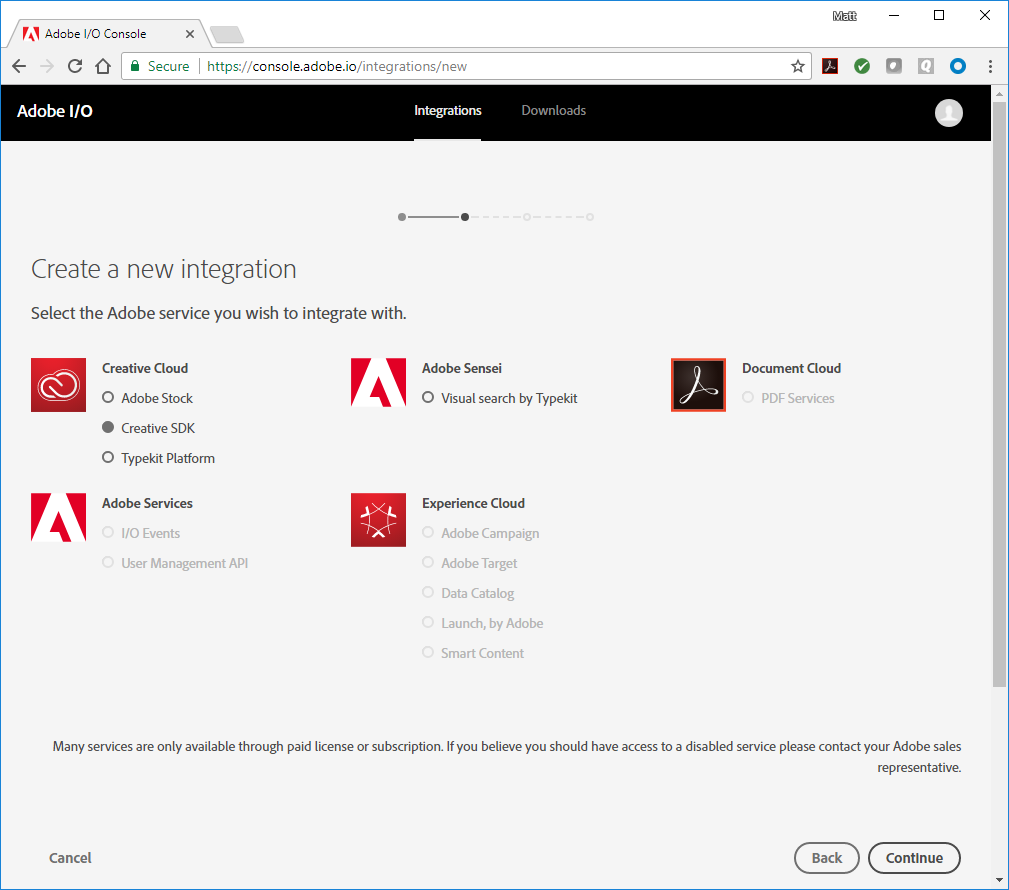
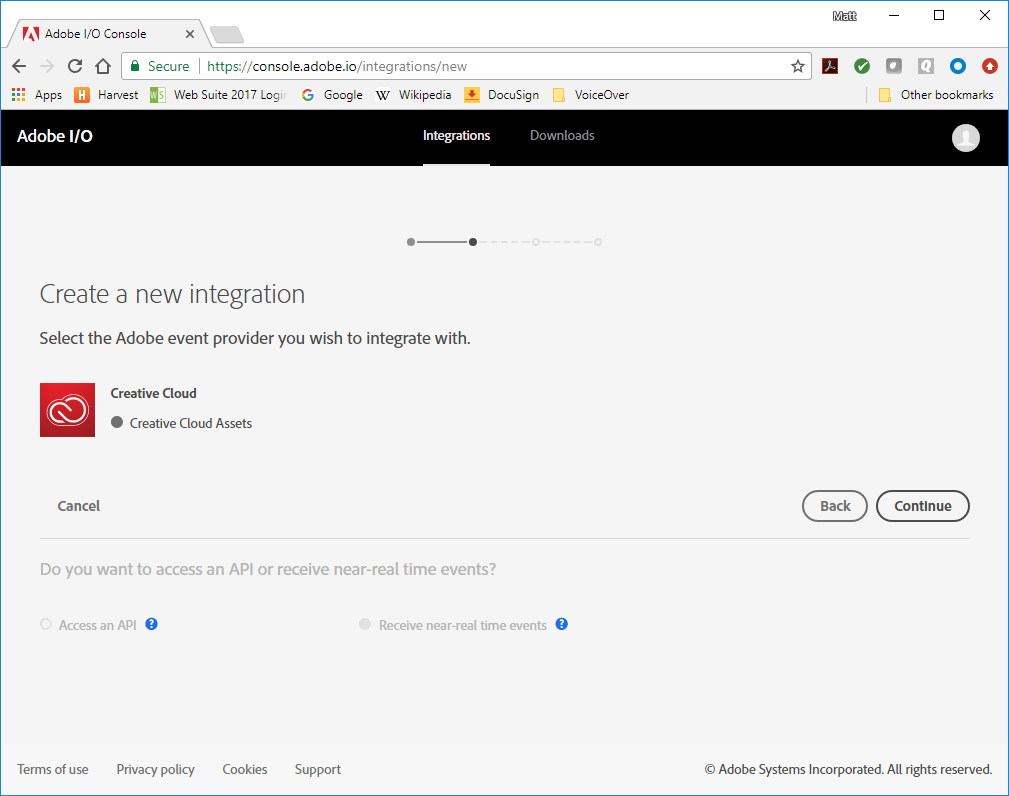
Updates to reflect choosing to receive events instead of API

diff --git a/Webhook_docs_intro.md b/Webhook_docs_intro.md
@@ -134,7 +134,7 @@ Among other things, ngrok is a great tool for testing webhooks. Once you've down
 
 ![ngrok on port 80](img/ngrok.png "ngrok on port 80")
 
-In the ngrok UI, you can see the URL for viewing the ngrok logs, labeled "Web Interface", plus the public-facing URLs ngrok generates to forward HTTP and HTTPS traffic to your localhost. You can use either of those public-facing URLs to register your Webhook with Adobe I/O, so long as your application is configured to respond on your localhost accordingly. Once your testing phase is complete, you would then replace the ngrok URL in your Adobe I/O integration with the public URL for your deployed app.
+In the ngrok UI, you can see the URL for viewing the ngrok logs, labeled "Web Interface", plus the public-facing URLs ngrok generates to forward HTTP and HTTPS traffic to your localhost. You can use either of those public-facing URLs to register your Webhook with Adobe I/O, so long as your application is configured to respond on your localhost accordingly. Once your testing phase is complete, replace the ngrok URL in your Adobe I/O integration with the public URL for your deployed app.
 
 <a id="org926a538"></a>
 
@@ -146,11 +146,11 @@ To create an integration:
   
   ![Adobe I/O Console](img/Console_1.png "Adobe I/O Console")  
   
-2. Select [New integration](https://console.adobe.io/integrations/new). You have the choice between "Access An API" or "Receive Realtime Events". Choose "Access an API" and select "Continue".  
+2. Select [New integration](https://console.adobe.io/integrations/new). You have the choice between "Access an API" or "Receive near real-time events". Choose "Receive near real-time events" and select "Continue".  
   
   ![Create a new integration](img/Console_2.png "Create a new integration")  
   
-3. Now you're given the choice of Adobe service for your integration. Choose "Creative SDK" and select "Continue".  
+3. Now you're given the choice of Adobe event provider for your integration. Choose "Creative Cloud Assets" and select "Continue".  
   
   ![Choosing Creative SDK](img/Console_3.png "Choosing Creative SDK")  
   
@@ -158,35 +158,39 @@ To create an integration:
   
   ![A brand new integration](img/Console_4.png "A brand new integration")  
   
-5. Enter a name and description for the integration. As a platform, choose "Web". You also need to specifiy a Redirect URL and Redirect URL pattern. These are only relevant when using the [Creative Cloud SDK User Auth UI](https://creativesdk.adobe.com/docs/web/#/articles/userauthui/index.html). For now you can fill in `https://example.com` and `https://example\.com/.*` respectively. Select "Create Integration".  
+5. Enter a name and description for the integration. As a platform, choose "Web". You also need to specifiy a Redirect URL and Redirect URL pattern. These are only relevant when using the [Creative Cloud SDK User Auth UI](https://creativesdk.adobe.com/docs/web/#/articles/userauthui/index.html). For now you can fill in `https://example.com` and `https://example\.com/.*` respectively.  
   
-  ![Completing the integration](img/Console_5.png "Completing the integration")  
-
-6. You'll see an acknowledgement that your integration has been created. Select "Continue to Integration details" to open the integration overview.  
-  
-  ![Go to integration details](img/Console_6.png "Go to integration details")  
+  ![Specifying the integration](img/Console_5.png "Specifying the integration")  
 
 <a id="orgef08b06"></a>
 
 ## Registering the Webhook
 
-Now that you've created the integration, you need to register your webhook. 
+To complete the integration, you need to add a webhook. 
 
-1. On the integration overview page, select the Events tab. Under "Available Event Providers" you can now add "Creative Cloud Assets".  
+1. Select "Add a webhook". The dialog expands to display the webhook details.  
   
-  ![The Events tab](img/Console_7.png "The Events tab")  
+  ![Webhook details](img/Console_6.png "Webhook details") 
 
-2. Select "Add Webhook". Give the webhook a name and description. As the webhook URL, fill in the URL provided by ngrok, but change the protocol to `https`; for example,  `https://595ae592.ngrok.io`. Also, check the boxes for the three available event types: Asset Created, Updated, Deleted.  
+2. Give the webhook a name and description. As the webhook URL, fill in the URL provided by ngrok, but change the protocol to `https`; for example,  `https://595ae592.ngrok.io`. Also, check the boxes for the three available event types: Asset Created, Updated, and Deleted.  
   
-  ![Registering the webhook](img/Console_8.png "Registering the webhook")  
+  ![Specifying the webhook](img/Console_7.png "Specifying the webhook")  
 
-3. Select "Save", and go check the ngrok log. You should see a `GET` request, including the `challenge` that was passed along in the URL.  
+3. Select "Save", click the Captcha ("I'm not a robot"), and then select "Create integration". 
+  
+  ![Completing the integration](img/Console_8.png "Completing the integration")  
+
+4. Check the ngrok log. You should see a `GET` request, including the `challenge` that was passed along in the URL.  
   
   ![The webhook request received in ngrok](img/ngrok_2.png "The webhook request received in ngrok")  
 
-4. Check the Adobe I/O Console and your webhook should be listed as "Active".  
+5. Return to the Adobe I/O Console. You should see an acknowledgement that your integration has been created. Select "Continue to integration details" and you'll be shown the Integration Overview. This is where you can see all your integration details and make updates as needed.  
   
-  ![The active webhook in the Console](img/Console_9.png "The active webhook in the Console")  
+  ![The Integration Overview](img/Console_9.png "The Integration Overview")  
+
+6. Select the Events tab. Your webhook should be listed as "Active".    
+  
+  ![The active webhook in the Console](img/Console_10.png "The active webhook in the Console") 
 
 <a id="orgecb4ae5"></a>
 
